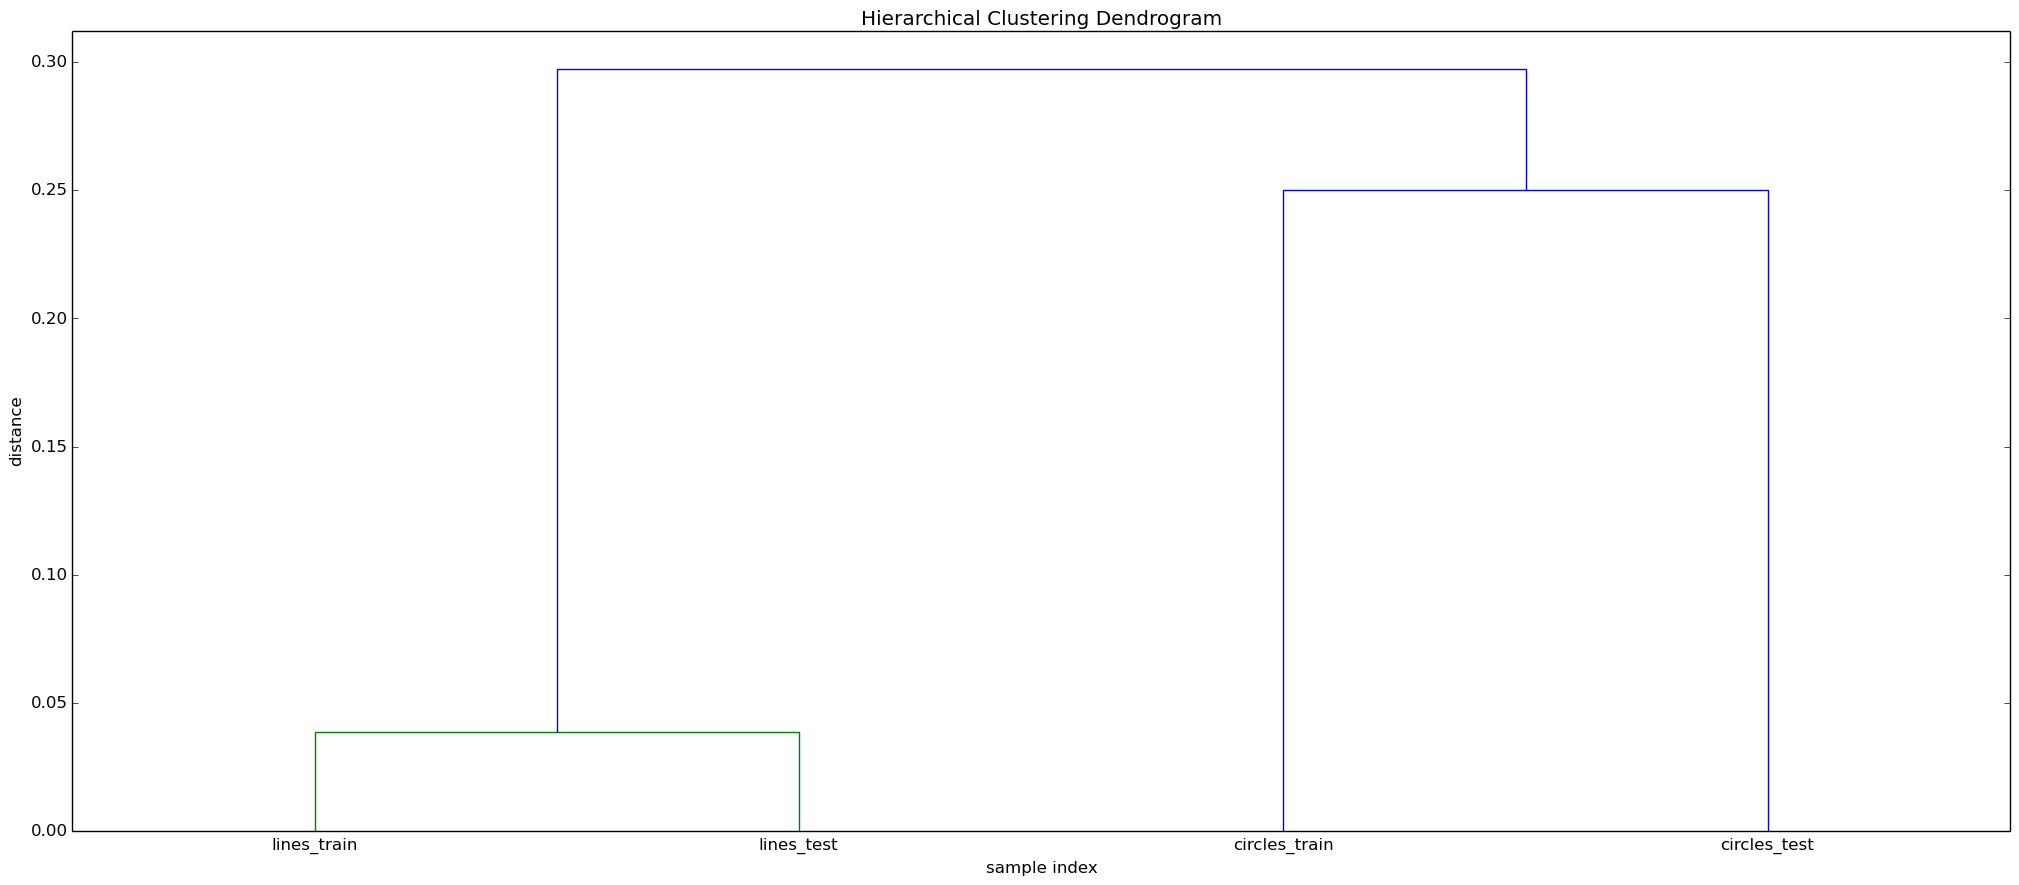
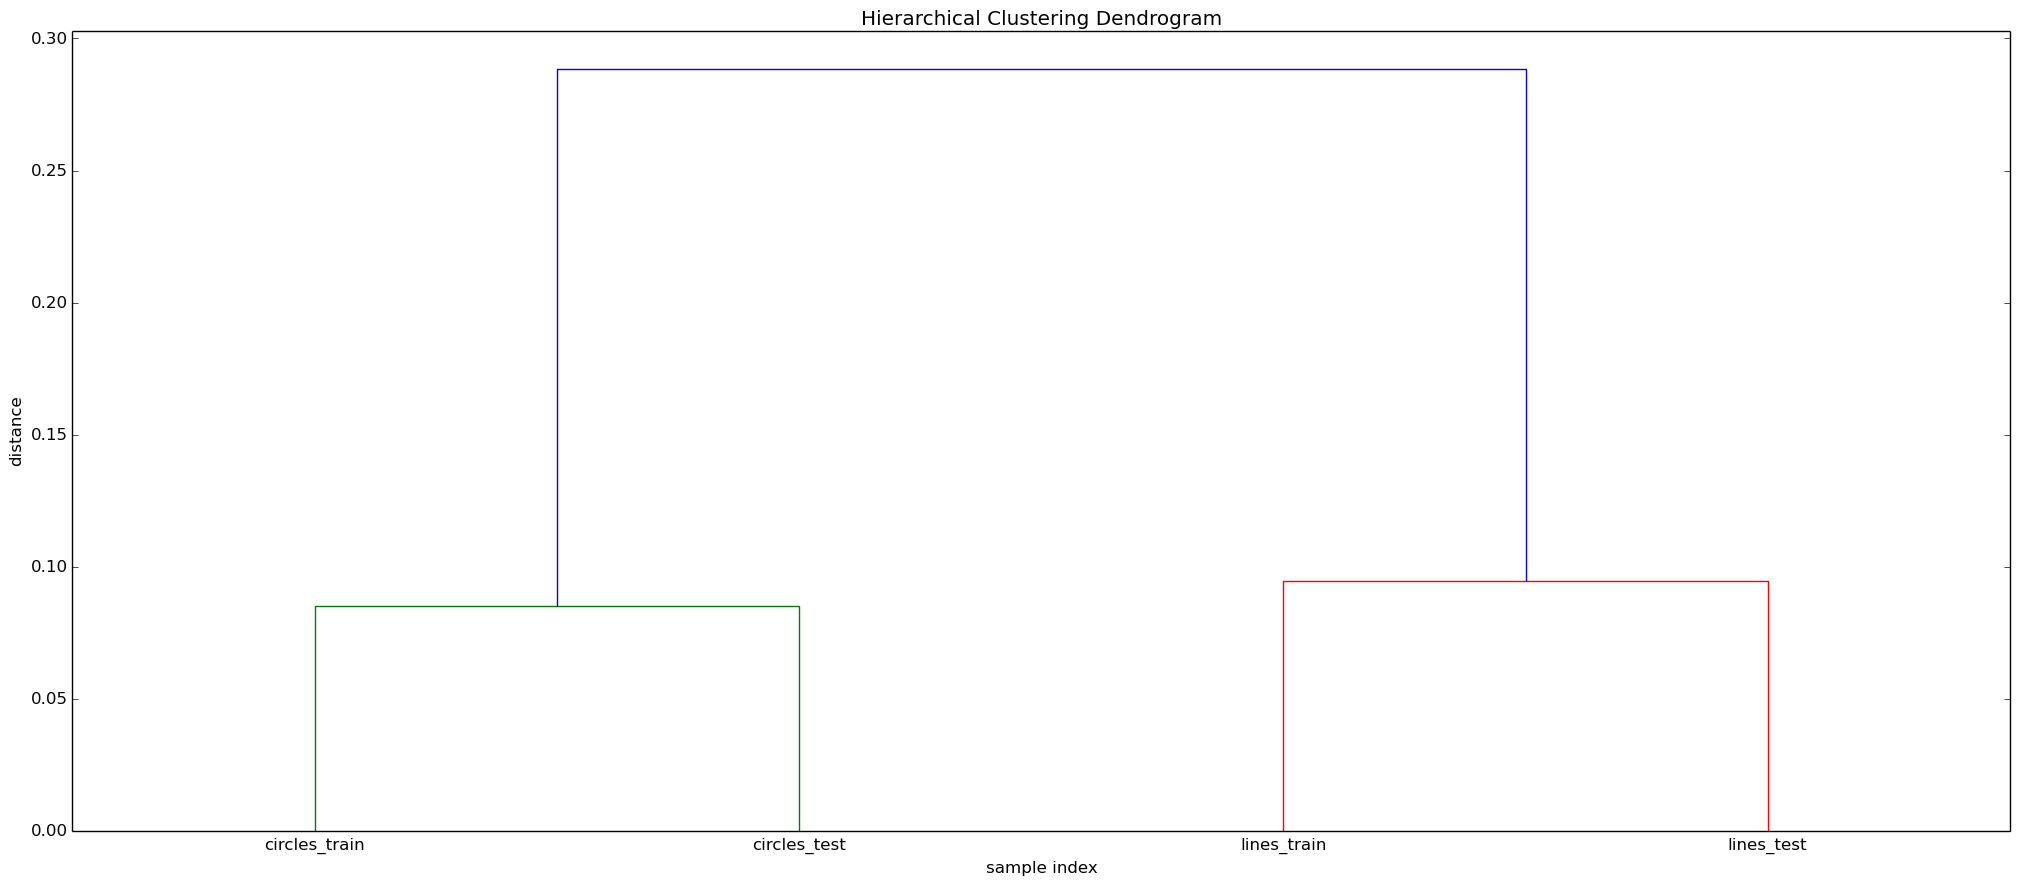
Fixes and tests.

diff --git a/src/main.py b/src/main.py
@@ -1,5 +1,5 @@
 from preprocessor import Preprocessor
-from prepreprocessor import Prepreprocessor
+from prepreprocessor import Prepreprocessor, BasicPrepreprocessor, RemoveStopwordsPrepreprocessor, StemLemPrepreprocessor
 from features_funcs import word_lengths_funcs, sentence_lengths_funcs, ratio_most_n_common_words, \
     ratio_length_of_words_texts
 from operator import ge
@@ -17,10 +17,12 @@ dims = 3
 random_split = True
 use_default_R = True
 n_intervals = None
+funcs = []
+prepre = StemLemPrepreprocessor
 
-funcs = [word_lengths_funcs, sentence_lengths_funcs, ratio_most_n_common_words, ratio_length_of_words_texts,
-            lambda text: ratio_length_of_words_texts(text, 8, ge)]
-pp = Preprocessor(Prepreprocessor, funcs, use_tfidf=20)
+#funcs = [word_lengths_funcs, sentence_lengths_funcs, ratio_most_n_common_words, ratio_length_of_words_texts,
+#            lambda text: ratio_length_of_words_texts(text, 8, ge)]
+pp = Preprocessor(prepre, funcs, use_tfidf=50)
 folder_names = ['abstracts', 'sports', 'reviews']
 X, y = pp.process(['../data/' + fold_n for fold_n in folder_names])
 Xs = flatten([halve_group(g, random_split=random_split) for g in get_groups(X, y)])
@@ -34,7 +36,7 @@ else:
 diagrams = [persistence_diagram(cx, R, X, n_intervals=n_intervals) for cx, R, X in zip(cxs, Rs, Xs)]
 titles = flatten([[name + '_train', name + '_test'] for name in folder_names])
 cluster_distances(map(lambda diagram: [PersistenceDiagram(d, diagram[d]) for d in range(dims)], diagrams),
-                  labels=titles, name="main")
+                  labels=titles, name="main", ps=[0,1,2])
 i = 0
 for diagram in diagrams:
     print diagram

diff --git a/src/clustering.py b/src/clustering.py
@@ -5,26 +5,29 @@ from distances import bottleneck_distance, wasserstein_distance
 import dionysus
 import matplotlib.pyplot as plt
 
-def cluster_distances(diagrams, ps=None, labels=None, name="default"):
+def cluster_distances(diagrams, ps=None, labels=None, name="default", method=np.average):
     d = np.zeros((len(diagrams), len(diagrams)))
     # Number of diagrams for each cluster.
     if not ps:
         ps = range(len(diagrams[0]))
-    for pth in ps:
+
+    d_temps = [np.zeros((len(diagrams), len(diagrams))) for _ in ps]
+    for t,pth in enumerate(ps):
         # Get pth diagram for each sample.
         pth_diagrams = map(lambda arr: arr[pth] , diagrams)
 
         # Calculate distances on diagrams.
         for i,dia1 in enumerate(pth_diagrams):
             for j,dia2 in enumerate(pth_diagrams):
-                d[i][j] += bottleneck_distance(dia1, dia2)
+                d_temps[t][i][j] += bottleneck_distance(dia1, dia2)
 
+    d = method(d_temps, axis=0)
     print "Clustering distances:"
     for i in range(len(d)):
         print "\t".join(map(str, d[i])) + '\n'
 
     y = squareform(d)
-    Z = hierarchy.linkage(y)
+    Z = hierarchy.linkage(y, method='complete')
 
     plt.figure(figsize=(25, 10))
     plt.title('Hierarchical Clustering Dendrogram')

diff --git a/src/preprocessor.py b/src/preprocessor.py
@@ -37,12 +37,16 @@ class Preprocessor():
         pp_texts = map(self.prepreprocessor_, flatten(texts))
         X = [np.array(f(pp_texts)) for f in self.feature_funs_]
         X = [x.reshape(-1,1) if len(np.shape(x)) == 1 else x for x in X]
-        X = np.hstack(X)
+        if list(X):
+            X = np.hstack(X)
         if self.use_tfidf_:
             words = get_words(map_flatten(pp_texts), self.use_tfidf_)
             M = get_M(map_flatten(pp_texts), words)
             tf_idf = get_tf_idf_M(M) # generate self.use_tfidf_ number of new features
-            X = np.hstack((X, tf_idf)) # glue them to X
+            if list(X):
+                X = np.hstack((X, tf_idf)) # glue them to X
+            else:
+                X = tf_idf
         return np.array(X), np.array(y)
 
 

diff --git a/src/benchmark_toy.py b/src/benchmark_toy.py
@@ -41,7 +41,7 @@ if __name__ == '__main__':
     Xs = flatten(map(halve_group, get_groups(X, y)))
     Rs = map(get_max_dist, Xs)
     cxs = map(cech, Xs)
-    diagrams = [persistence_diagram(cx, R) for cx, R in zip(cxs, Rs)]
+    diagrams = [persistence_diagram(cx, R, n_intervals=None) for cx, R in zip(cxs, Rs)]
     titles = flatten([[name + '_train', name + '_test'] for name in classes])
     cluster_distances(map(lambda diagram: [PersistenceDiagram(d, diagram[d]) for d in range(3)], diagrams), ps=[0,1,2],
                       labels=titles, name="toy")

diff --git a/src/benchmark_iris.py b/src/benchmark_iris.py
@@ -17,7 +17,7 @@ Xs = flatten(map(halve_group, get_groups(X, y)))
 Rs = map(get_max_dist, Xs)
 # Chech uses to much memory on 100 examples.
 cxs = map(alpha_shapes, Xs)
-diagrams = [persistence_diagram(cx, R) for cx, R in zip(cxs, Rs)]
+diagrams = [persistence_diagram(cx, R,n_intervals=None) for cx, R in zip(cxs, Rs)]
 titles = flatten([[name + '_train', name + '_test'] for name in classes])
 cluster_distances(map(lambda diagram: [PersistenceDiagram(d, diagram[d]) for d in range(3)], diagrams),
                   ps=[0,1,2], labels=titles, name="iris")

diff --git a/src/prepreprocessor.py b/src/prepreprocessor.py
@@ -8,6 +8,12 @@ def BasicPrepreprocessor(text):
 
     return Prepreprocessor(text, False, False, False)
 
+def RemoveStopwordsPrepreprocessor(text):
+    return Prepreprocessor(text, True, False, False)
+
+def StemLemPrepreprocessor(text):
+    return Prepreprocessor(text, False, True, True)
+
 def Prepreprocessor(text, remove_stopwords=True, stem=True, lemmatize=True):
     """
     Tokenize text.
